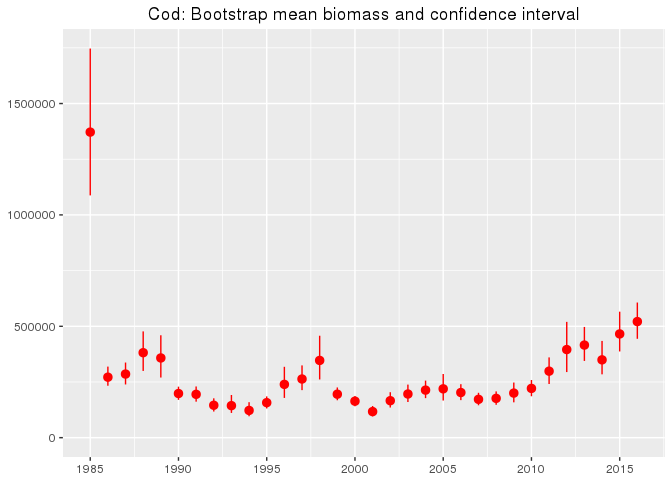
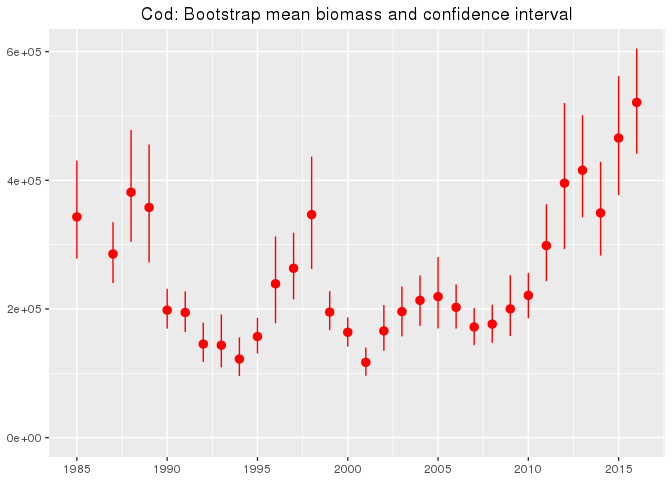
distinct -> dplyr::distinct

diff --git a/README.md b/README.md
@@ -28,36 +28,36 @@ glimpse(st)
 ```
 ## Observations: NA
 ## Variables: 64
-## $ vindhradi_hnutar (int) 30, 30, 30, 30, 24, 18, 18, 13, 13, 9, 9, 5, ...
+## $ vindhradi_hnutar (int) 30, 30, 5, 5, 13, 13, 5, 37, 13, 24, 13, 18, ...
 ## $ sjondypi         (int) NA, NA, NA, NA, NA, NA, NA, NA, NA, NA, NA, N...
-## $ straumhradi      (dbl) NA, NA, NA, NA, NA, NA, NA, NA, NA, NA, NA, N...
-## $ straumstefna     (int) NA, NA, NA, NA, NA, NA, NA, NA, NA, NA, NA, N...
+## $ straumhradi      (dbl) NA, NA, NA, NA, NA, NA, NA, NA, NA, 0.6, 0.5,...
+## $ straumstefna     (int) NA, NA, NA, NA, NA, NA, NA, NA, NA, 30, 30, 3...
 ## $ hafis            (int) 0, 0, 0, 0, 0, 0, 0, 0, 0, 0, 0, 0, 0, 0, 0, ...
-## $ loftvog          (int) 992, 982, 982, NA, 984, 986, 986, 986, 986, 9...
-## $ lofthiti         (dbl) -4.5, -4.5, NA, -2.0, -1.3, 0.0, 0.1, 0.2, 0....
-## $ yfirbordshiti    (dbl) 1.1, 1.1, 1.0, 1.1, 0.9, 1.3, 1.2, 1.2, 1.1, ...
-## $ botnhiti         (dbl) NA, 1.0, NA, 1.0, 1.1, 1.0, -0.5, 0.9, 0.9, 0...
-## $ sjor             (int) 4, 4, 5, 5, 4, 4, 4, 3, 3, 2, 2, 2, 3, 3, 2, ...
-## $ sky              (int) 9, 9, 8, 7, 7, 7, 7, 9, 9, 9, 9, 7, 7, 7, 8, ...
-## $ vedur            (int) 2, 2, 2, 7, 7, 1, 1, 1, 1, 1, 1, 2, 7, 7, 7, ...
-## $ vindatt          (int) 5, 5, 5, 9, 9, 9, 9, 9, 9, 14, 14, 5, 5, 5, 3...
-## $ vindhradi        (int) 15, 15, 15, 15, 12, 9, 9, 7, 7, 5, 5, 3, 7, 7...
+## $ loftvog          (int) 982, NA, 977, 999, 981, 986, NA, 976, 1000, 9...
+## $ lofthiti         (dbl) -4.5, -2.0, 1.2, 1.0, 0.0, -1.4, 0.5, 0.0, 0....
+## $ yfirbordshiti    (dbl) 1.1, 1.1, 1.0, 1.1, 1.0, 1.0, 1.3, 1.2, 0.2, ...
+## $ botnhiti         (dbl) 1.0, 1.0, -0.1, 1.0, -0.1, 0.5, 1.0, 1.1, 3.4...
+## $ sjor             (int) 4, 5, 2, 1, 3, 4, 2, 4, 5, 4, 3, 4, 2, 2, 3, ...
+## $ sky              (int) 9, 7, 7, 9, 8, 9, 6, 7, 2, 4, 4, 5, 4, 5, 4, ...
+## $ vedur            (int) 2, 7, 2, 1, 7, 7, 1, 7, 1, 1, 1, 1, 1, 1, 1, ...
+## $ vindatt          (int) 5, 9, 5, 14, 36, 5, 11, 5, 5, 27, 23, 23, 36,...
+## $ vindhradi        (int) 15, 15, 3, 3, 7, 7, 3, 19, 7, 12, 7, 9, 5, 5,...
 ## $ dregid_fra       (chr) NA, NA, NA, NA, NA, NA, NA, NA, NA, NA, NA, N...
 ## $ tog_lengd        (dbl) NA, NA, NA, NA, NA, NA, NA, NA, NA, NA, NA, N...
 ## $ eykt             (int) NA, NA, NA, NA, NA, NA, NA, NA, NA, NA, NA, N...
 ## $ togdypishiti     (dbl) NA, NA, NA, NA, NA, NA, NA, NA, NA, NA, NA, N...
 ## $ togdypi_hift     (int) NA, NA, NA, NA, NA, NA, NA, NA, NA, NA, NA, N...
 ## $ togdypi_kastad   (int) NA, NA, NA, NA, NA, NA, NA, NA, NA, NA, NA, N...
-## $ togtimi          (dbl) 60, 63, 74, 60, 59, 59, 61, 64, 62, 62, 60, 5...
+## $ togtimi          (dbl) 63, 60, 59, 60, 65, 65, 58, 62, 70, 73, 60, 7...
 ## $ larett_opnun     (dbl) NA, NA, NA, NA, NA, NA, NA, NA, NA, NA, NA, N...
-## $ togstefna        (int) 355, 360, 55, 53, 360, 327, 55, 70, 220, 230,...
-## $ tognumer         (dbl) 15, 13, 12, 1, 2, 1, 11, 13, 12, 14, 3, 11, 4...
-## $ lodrett_opnun    (dbl) 2.0, 3.0, 2.4, 2.6, NA, NA, NA, 2.2, 2.0, 2.0...
-## $ vir_uti          (int) 375, 375, 375, 150, 250, 375, 450, 325, 350, ...
-## $ toglengd         (dbl) 4, 4, 4, 4, 4, 4, 4, 4, 4, 4, 4, 4, 4, 4, 4, ...
-## $ toghradi         (dbl) 4.0, 3.8, 3.2, 4.0, 4.1, 4.1, 3.9, 3.8, 3.9, ...
-## $ togendir         (time) 1990-03-16 06:05:00, 1990-03-16 08:51:00, 19...
-## $ togbyrjun        (time) 1990-03-16 05:05:00, 1990-03-16 07:48:00, 19...
+## $ togstefna        (int) 360, 53, 15, 206, 180, 215, 53, 54, 80, 190, ...
+## $ tognumer         (dbl) 13, 1, 11, 3, 13, 12, 1, 2, 5, 1, 1, 1, 2, 6,...
+## $ lodrett_opnun    (dbl) 3.0, 2.6, 2.8, 2.2, NA, 2.2, 2.4, 2.4, 2.7, 2...
+## $ vir_uti          (int) 375, 150, 375, 175, 550, 325, 275, 300, 250, ...
+## $ toglengd         (dbl) 4.0, 4.0, 4.0, 4.0, 4.0, 4.0, 4.0, 4.0, 4.0, ...
+## $ toghradi         (dbl) 3.8, 4.0, 4.1, 4.0, 3.7, 3.7, 4.1, 3.9, 3.4, ...
+## $ togendir         (time) 1990-03-16 08:51:00, 1990-03-16 12:31:00, 19...
+## $ togbyrjun        (time) 1990-03-16 07:48:00, 1990-03-16 11:31:00, 19...
 ## $ medferd_afla     (int) NA, NA, NA, NA, NA, NA, NA, NA, NA, NA, NA, N...
 ## $ tog_aths         (chr) NA, NA, NA, NA, NA, NA, NA, NA, NA, NA, NA, N...
 ## $ veidarfaeri_id   (dbl) NA, NA, NA, NA, NA, NA, NA, NA, NA, NA, NA, N...
@@ -74,22 +74,22 @@ glimpse(st)
 ## $ skiki            (int) NA, NA, NA, NA, NA, NA, NA, NA, NA, NA, NA, N...
 ## $ londunarhofn     (int) NA, NA, NA, NA, NA, NA, NA, NA, NA, NA, NA, N...
 ## $ heildarafli      (int) NA, NA, NA, NA, NA, NA, NA, NA, NA, NA, NA, N...
-## $ grandaralengd    (int) 45, 45, 45, 45, 45, 45, 45, 45, 45, 45, 45, 4...
+## $ grandaralengd    (int) 45, 45, 45, 45, 45, 45, 45, 45, 35, 45, 45, 4...
 ## $ moskvastaerd     (int) 40, 40, 40, 40, 40, 40, 40, 40, 40, 40, 40, 4...
 ## $ veidarfaeri      (int) 73, 73, 73, 73, 73, 73, 73, 73, 73, 73, 73, 7...
-## $ dypi_hift        (int) 330, 314, 291, 117, 172, 307, 360, 256, 282, ...
-## $ dypi_kastad      (int) 297, 302, 205, 88, 129, 249, 332, 244, 291, 2...
-## $ hift_v_lengd     (int) 204390, 203201, 201745, 200465, 195933, 20453...
-## $ hift_n_breidd    (int) 663550, 663455, 663693, 663696, 664343, 67179...
-## $ kastad_v_lengd   (int) 204222, 202986, 202679, 201290, 195946, 20395...
-## $ kastad_n_breidd  (int) 663135, 663055, 663515, 663445, 663946, 67145...
-## $ smareitur        (int) 3, 4, 4, 4, 4, 1, 1, 4, 4, 4, 3, 4, 4, 1, 2, ...
-## $ reitur           (int) 670, 670, 670, 670, 670, 720, 720, 720, 720, ...
-## $ stod             (int) 72, 73, 74, 75, 76, 79, 80, 81, 82, 83, 84, 8...
+## $ dypi_hift        (int) 314, 117, 315, 115, 381, 197, 228, 248, 167, ...
+## $ dypi_kastad      (int) 302, 88, 311, 103, 354, 265, 218, 226, 188, 4...
+## $ hift_v_lengd     (int) 203201, 200465, 192184, 211235, 183368, 18210...
+## $ hift_n_breidd    (int) 663455, 663696, 663404, 664407, 664548, 66410...
+## $ kastad_v_lengd   (int) 202986, 201290, 192417, 210798, 183376, 18159...
+## $ kastad_n_breidd  (int) 663055, 663445, 663020, 664791, 664956, 66444...
+## $ smareitur        (int) 4, 4, 4, 2, 1, 4, 3, 3, 3, 4, 1, 3, 4, 3, 1, ...
+## $ reitur           (int) 670, 670, 669, 671, 668, 668, 721, 720, 462, ...
+## $ stod             (int) 73, 75, 86, 57, 91, 93, 51, 66, 1, 86, 92, 97...
 ## $ skip             (int) 1307, 1307, 1307, 1307, 1307, 1307, 1307, 130...
-## $ dags             (time) 1990-03-16, 1990-03-16, 1990-03-16, 1990-03-...
+## $ dags             (time) 1990-03-16, 1990-03-16, 1990-03-17, 1990-03-...
 ## $ leidangur        (chr) "TA1-90", "TA1-90", "TA1-90", "TA1-90", "TA1-...
-## $ synis_id         (int) 44929, 44928, 44927, 44926, 44925, 44922, 449...
+## $ synis_id         (int) 44928, 44926, 45043, 44944, 45038, 45036, 449...
 ## $ ar               (dbl) 1990, 1990, 1990, 1990, 1990, 1990, 1990, 199...
 ## $ man              (dbl) 3, 3, 3, 3, 3, 3, 3, 3, 3, 3, 3, 3, 3, 3, 3, ...
 ```
@@ -102,7 +102,7 @@ st %>%
   mutate(lon1 = -gisland::geo_convert(kastad_v_lengd),
          lat1 =  gisland::geo_convert(kastad_n_breidd)) %>% 
   ggplot() +
-  theme_bw() +
+  theme_minimal() +
   geom_point(aes(lon1,lat1),alpha=0.2, size=1, col="red") +
   geom_polygon(data=gisland::iceland,aes(long,lat,group=group),fill="grey90") +
   coord_map(ylim=c(62,67.8), xlim=c(-31,-9)) +
@@ -127,10 +127,12 @@ cod <-
               filter(tegund %in% 1) %>% 
               select(synis_id, fj_talid, fj_maelt),
             by = "synis_id") %>% 
-  collect(n = 1e7) # should be allowed to pass n = -1, but returns an error
+  collect(n = Inf) 
 ```
 
 ```
+## Joining by: "SYNIS_ID"
+## Joining by: "SYNIS_ID"
 ## Joining by: "SYNIS_ID"
 ## Joining by: "SYNIS_ID"
 ```
@@ -140,17 +142,17 @@ glimpse(cod)
 ```
 
 ```
-## Observations: 618,860
+## Observations: 543,384
 ## Variables: 9
-## $ synis_id   (int) 44929, 44929, 44929, 44929, 44929, 44929, 44929, 44...
-## $ ar         (dbl) 1990, 1990, 1990, 1990, 1990, 1990, 1990, 1990, 199...
+## $ synis_id   (int) 47824, 50746, 48677, 48679, 48668, 47855, 48167, 48...
+## $ ar         (dbl) 1991, 1992, 1991, 1991, 1991, 1991, 1991, 1991, 199...
 ## $ kynthroski (int) NA, NA, NA, NA, NA, NA, NA, NA, NA, NA, NA, NA, NA,...
 ## $ kyn        (int) NA, NA, NA, NA, NA, NA, NA, NA, NA, NA, NA, NA, NA,...
-## $ fjoldi     (int) 12, 14, 20, 13, 1, 5, 1, 2, 5, 1, 1, 1, 1, 5, 1, 2,...
-## $ lengd      (dbl) 21, 24, 25, 26, 28, 29, 30, 31, 38, 54, 63, 70, 10,...
+## $ fjoldi     (int) 3, 3, 1, 3, 1, 2, 2, 1, 2, 3, 3, 2, 2, 1, 3, 1, 3, ...
+## $ lengd      (dbl) 71, 71, 55, 35, 58, 68, 58, 45, 46, 81, 32, 77, 31,...
 ## $ tegund     (int) 1, 1, 1, 1, 1, 1, 1, 1, 1, 1, 1, 1, 1, 1, 1, 1, 1, ...
 ## $ fj_talid   (int) 0, 0, 0, 0, 0, 0, 0, 0, 0, 0, 0, 0, 0, 0, 0, 0, 0, ...
-## $ fj_maelt   (dbl) 155, 155, 155, 155, 155, 155, 155, 155, 155, 155, 1...
+## $ fj_maelt   (dbl) 149, 71, 89, 298, 145, 38, 78, 53, 106, 97, 67, 74,...
 ```
 
 ```r
@@ -204,6 +206,8 @@ cod <-
 ```
 ## Joining by: "SYNIS_ID"
 ## Joining by: "SYNIS_ID"
+## Joining by: "SYNIS_ID"
+## Joining by: "SYNIS_ID"
 ```
 
 ```r
@@ -211,12 +215,12 @@ glimpse(cod)
 ```
 
 ```
-## Observations: 17,989
+## Observations: 17,404
 ## Variables: 4
-## $ synis_id (int) 45043, 44947, 44946, 44936, 44282, 44269, 44268, 4438...
-## $ ar       (dbl) 1990, 1990, 1990, 1990, 1990, 1990, 1990, 1990, 1990,...
-## $ n        (dbl) 77, 7, 63, 27, 114, 65, 72, 51, 521, 263, 223, 94, 24...
-## $ b        (dbl) 10483.83, 3004.04, 11709.23, 1066.52, 401705.29, 2265...
+## $ synis_id (int) 48202, 50764, 48423, 48298, 48283, 47902, 50385, 4822...
+## $ ar       (dbl) 1991, 1992, 1991, 1991, 1991, 1991, 1992, 1991, 1991,...
+## $ n        (dbl) 563, 28, 236, 106, 189, 43, 86, 45, 244, 7, 1048, 33,...
+## $ b        (dbl) 934585.72, 126980.07, 426956.24, 128392.20, 263510.38...
 ```
 
 ```r
@@ -229,7 +233,7 @@ cod %>%
 ```
 
 ```
-## Warning: Removed 405 rows containing non-finite values (stat_summary).
+## Warning: Removed 396 rows containing non-finite values (stat_summary).
 ```
 
 ![](README_files/figure-html/smb3-1.png)
@@ -332,7 +336,7 @@ devtools::session_info()
 ##  CRAN (R 3.2.3)                             
 ##  CRAN (R 3.2.3)                             
 ##  CRAN (R 3.2.3)                             
-##  Github (fishvice/mar@fdbc334)              
+##  local                                      
 ##  CRAN (R 3.2.3)                             
 ##  CRAN (R 3.2.3)                             
 ##  CRAN (R 3.2.3)                             
